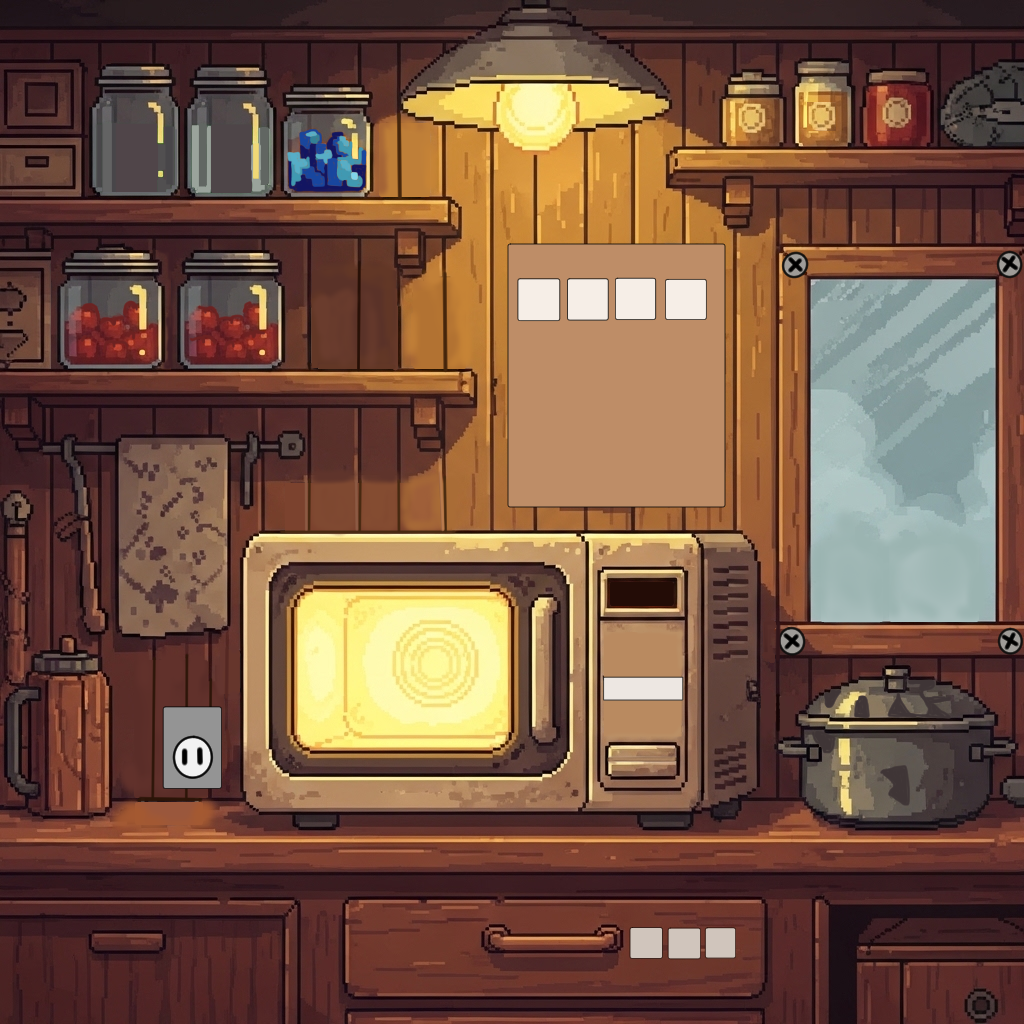
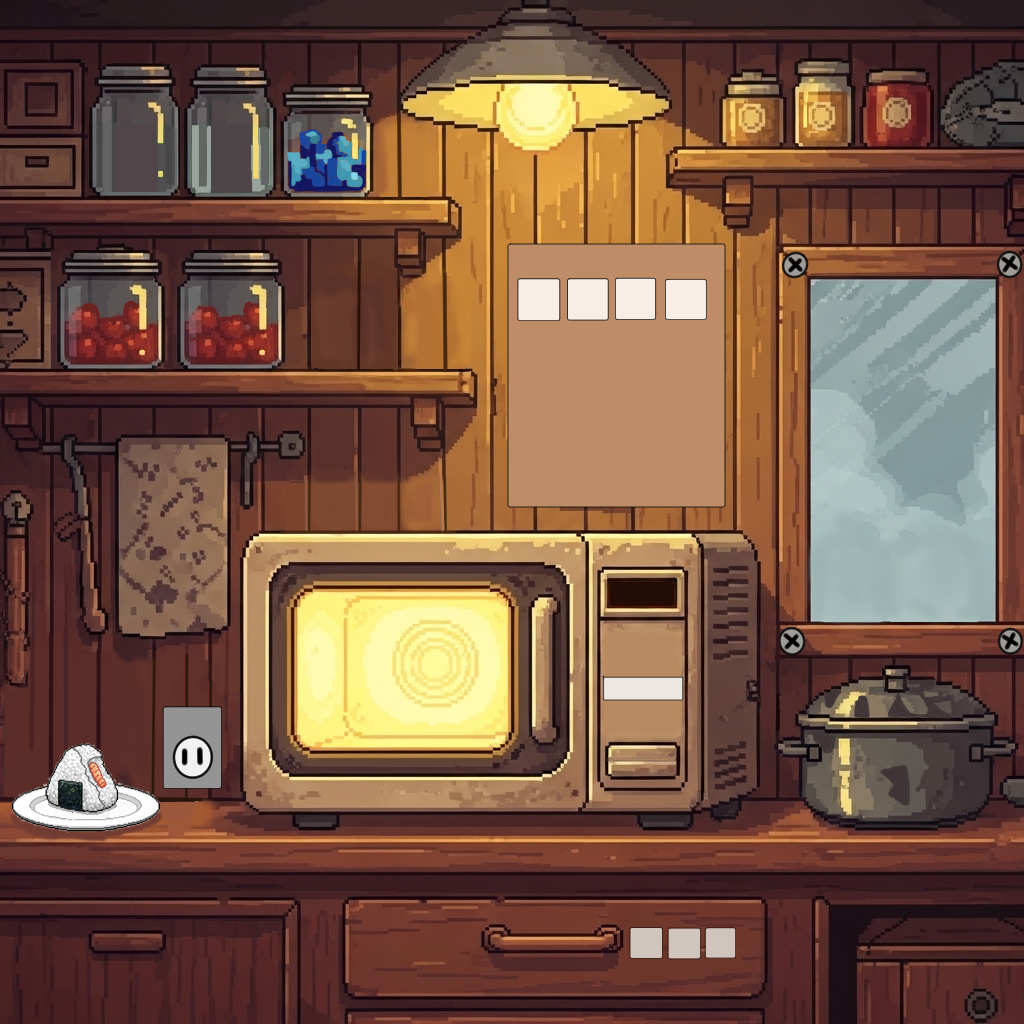
escape29 add

Changed region(s): [[0.0, 0.625, 0.1562, 0.8438]]

diff --git a/zxcvb.html b/zxcvb.html
@@ -1630,13 +1630,13 @@
                     {
                         x: 78.0, y: 65.6, width: 19.7, height: 15.1,
                         onClick: clickWrap(function () {
-                            if (gameState.selectedItem == 'hammer'&& !gameState.main.flags.openNabe) {
+                            if (gameState.selectedItem == 'hammer' && !gameState.main.flags.openNabe) {
                                 showObj('useHammerToNabe', 'ハンマーで鍋をたたいた', IMAGES.modals.nabeHammer, '鍋は少しへこんでしまった');
                                 playSE('se-sword');
                                 renderCanvasRoom();
                                 return;
                             }
-                            if (gameState.selectedItem == 'luckyHammer'&& !gameState.main.flags.openNabe) {
+                            if (gameState.selectedItem == 'luckyHammer' && !gameState.main.flags.openNabe) {
                                 updateMessage('何も起こらなかった。');
                                 playSE('se-sword');
                                 renderCanvasRoom();
@@ -1750,7 +1750,7 @@
                                     showObj(null, 'オープナーで蓋を開けた', IMAGES.modals.openBottle, 'オープナーで蓋を開けた');
                                     renderCanvasRoom();
                                 } else {
-                                    updateMessage('蓋が固くて開かない。');
+                                    updateMessage('青い素材が入っているが、蓋が固くて開かない。');
                                 }
                                 return;
                             }
@@ -1772,6 +1772,16 @@
 
                         }),
                         description: '青い素材の瓶',
+                        zIndex: 5,
+                        usable: () => true,
+                        item: { img: 'IMAGE_KEY', visible: () => true }
+                    },
+                    {
+                        x: 69.7, y: 5.6, width: 21.7, height: 8.8,
+                        onClick: clickWrap(function () {
+                            updateMessage('素材の瓶が並んでいる');
+                        }),
+                        description: '右上瓶',
                         zIndex: 5,
                         usable: () => true,
                         item: { img: 'IMAGE_KEY', visible: () => true }
@@ -1801,11 +1811,11 @@
                         item: { img: 'windowAfter', visible: () => gameState.main.flags.removeWindowFrame }
                     },
                     {
-                        x: 1.1, y: 62.1, width: 10.5, height: 18.5,
+                        x: 1.5, y: 71.4, width: 13.1, height: 9.4,
                         onClick: clickWrap(function () {
-
+                            updateMessage('食べかけのおにぎりだ。具は鮭のようだ');
                         }),
-                        description: 'ポット',
+                        description: '食べかけのおにぎり',
                         zIndex: 5,
                         usable: () => true,
                         item: { img: 'IMAGE_KEY', visible: () => true }
